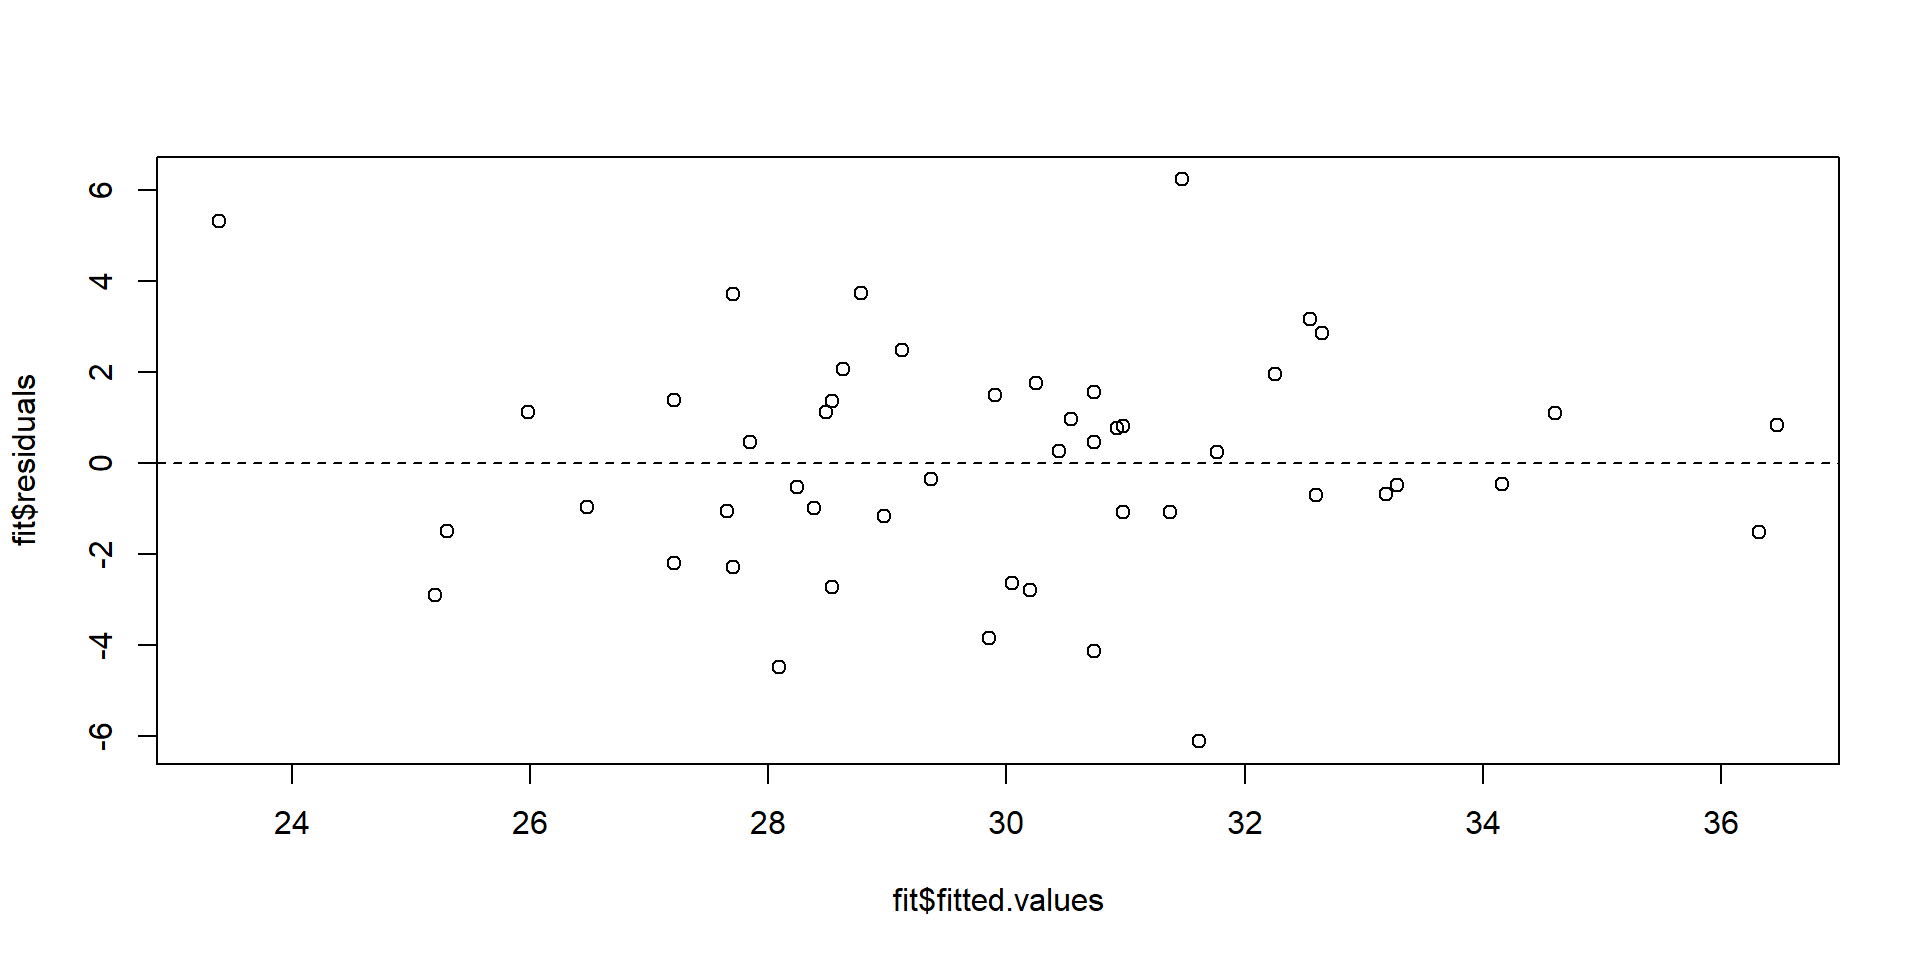
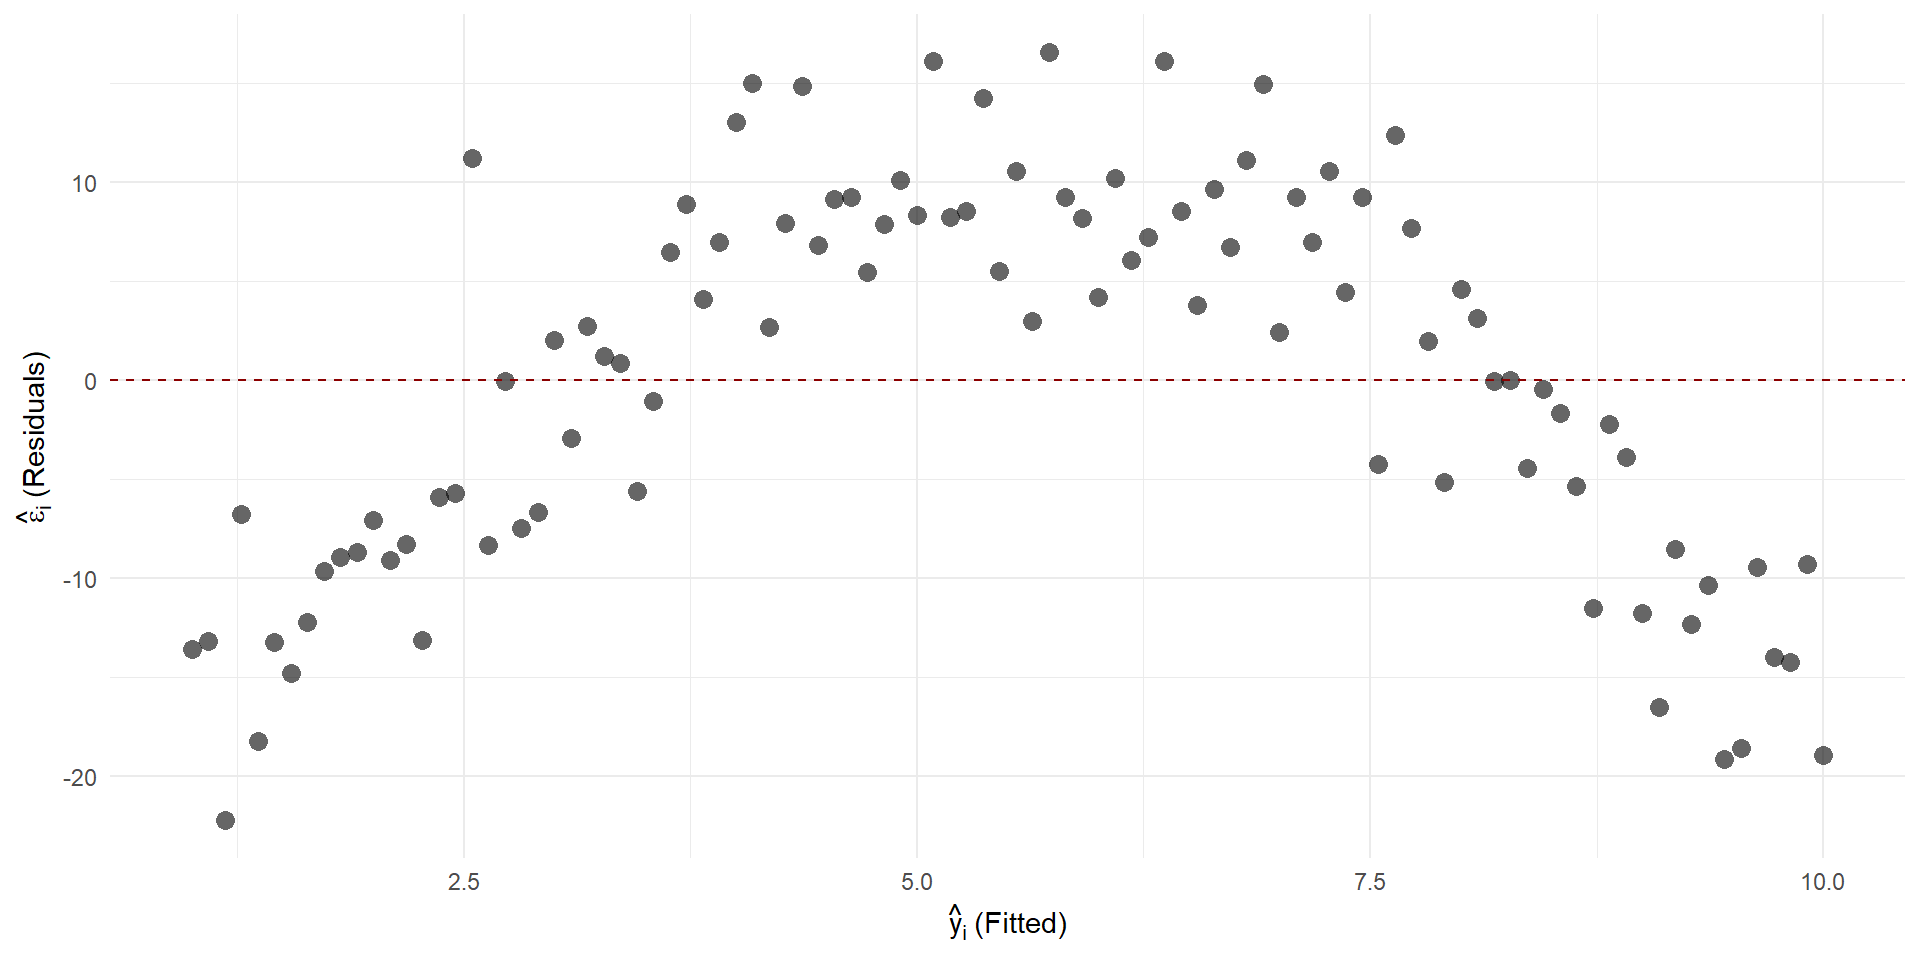
update elcgture 17 and 18

diff --git a/slides/lec-18-multiple-reg_AGH.html b/slides/lec-18-multiple-reg_AGH.html
@@ -206,10 +206,8 @@
 <section id="announcements" class="slide level2">
 <h2>Announcements</h2>
 <ul>
-<li><p>Project proposals due <strong>tonight, 11:59pm</strong>.</p></li>
-<li><p>Lab 7 due <strong>Friday Nov 14, 2025</strong></p></li>
-<li><p>HW will be assigned later this week</p></li>
-<li><p>Exams will be passed back on Thursday.</p></li>
+<li><p>Lab 7 due <strong>Friday, April 10th</strong></p></li>
+<li><p>Exams will be passed back on Tuesday</p></li>
 </ul>
 </section>
 <section id="reading" class="slide level2">
@@ -227,7 +225,7 @@
 <span id="cb1-3"><a href=""></a><span class="fu">library</span>(kableExtra)</span></code></pre></div><button title="Copy to Clipboard" class="code-copy-button"><i class="bi"></i></button></div>
 </div>
 </section>
-<section id="review-assumptions-of-linear-regression" class="slide level2">
+<section id="review-assumptions-of-linear-regression" class="slide level2 smaller">
 <h2>Review: Assumptions of linear regression</h2>
 <div class="callout callout-tip callout-titled callout-style-default">
 <div class="callout-body">
@@ -252,7 +250,7 @@
 <li><p>We can do so by “<strong>running regression diagnostics</strong>” - which means checking the assumptions within our regression model.</p></li>
 </ul>
 </section>
-<section id="regression-diagnostics-independence" class="slide level2">
+<section id="regression-diagnostics-independence" class="slide level2 smaller">
 <h2>Regression diagnostics: independence</h2>
 <p>We just have to think through this one, unfortunately.</p>
 <ul>
@@ -289,7 +287,16 @@
 </section>
 <section id="regression-diagnostics-equal-variances" class="slide level2">
 <h2>Regression diagnostics: equal variances</h2>
-</section>
+
+<img data-src="lec-18-multiple-reg_AGH_files/figure-revealjs/unnamed-chunk-2-1.png" width="960" class="r-stretch"></section>
+<section id="regression-diagnostics-equal-variances-1" class="slide level2">
+<h2>Regression diagnostics: equal variances</h2>
+
+<img data-src="lec-18-multiple-reg_AGH_files/figure-revealjs/unnamed-chunk-3-1.png" width="960" class="r-stretch"></section>
+<section id="regression-diagnostic-equal-variances" class="slide level2">
+<h2>Regression diagnostic: equal variances</h2>
+
+<img data-src="lec-18-multiple-reg_AGH_files/figure-revealjs/unnamed-chunk-4-1.png" width="960" class="r-stretch"></section>
 <section id="regression-diagnostics-normality-of-errors" class="slide level2">
 <h2>Regression diagnostics: normality of errors</h2>
 <ul>
@@ -304,7 +311,7 @@
 <span id="cb2-3"><a href=""></a><span class="fu">abline</span>(<span class="at">h =</span> <span class="dv">0</span>,<span class="at">lty =</span> <span class="dv">2</span>)</span></code></pre></div><button title="Copy to Clipboard" class="code-copy-button"><i class="bi"></i></button></div>
 
 </div>
-<img data-src="lec-18-multiple-reg_AGH_files/figure-revealjs/unnamed-chunk-3-1.png" width="960" class="r-stretch"></section>
+<img data-src="lec-18-multiple-reg_AGH_files/figure-revealjs/unnamed-chunk-6-1.png" width="960" class="r-stretch"></section>
 <section id="checking-assumptions-for-our-model-1" class="slide level2">
 <h2>Checking assumptions for our model…</h2>
 <div class="cell">
@@ -312,12 +319,12 @@
 <span id="cb3-2"><a href=""></a><span class="fu">hist</span>(fit<span class="sc">$</span>residuals)</span></code></pre></div><button title="Copy to Clipboard" class="code-copy-button"><i class="bi"></i></button></div>
 
 </div>
-<img data-src="lec-18-multiple-reg_AGH_files/figure-revealjs/unnamed-chunk-4-1.png" width="960" class="r-stretch"></section>
+<img data-src="lec-18-multiple-reg_AGH_files/figure-revealjs/unnamed-chunk-7-1.png" width="960" class="r-stretch"></section>
 <section id="back-to-lab-02" class="slide level2 smaller">
 <h2>Back to Lab 02</h2>
 <p>In Lab 2 we examined the regression of obesity percentage on adequate exercise percentage.</p>
 
-<img data-src="lec-18-multiple-reg_AGH_files/figure-revealjs/unnamed-chunk-5-1.png" width="960" class="r-stretch"><p>Do we think this is the only factor that can help us predict obesity percentage?</p>
+<img data-src="lec-18-multiple-reg_AGH_files/figure-revealjs/unnamed-chunk-8-1.png" width="960" class="r-stretch"><p>Do we think this is the only factor that can help us predict obesity percentage?</p>
 </section>
 <section id="multiple-regression" class="slide level2 smaller">
 <h2>Multiple regression</h2>
@@ -581,6 +588,102 @@ F-statistic: 72.28 on 2 and 47 DF,  p-value: 4.572e-15</code></pre>
 <h2>Hypotheses of interest</h2>
 <p><strong>Conclusion</strong>: In this case, the p-value (4.572e-15) was lower than the pre-specified significance cut-off. There is sufficient evidence to suggest that at least one predictor (Exercise and/or Smoking) has a non-zero linear association with obesity %.</p>
 </section>
+<section id="example-confounding" class="slide level2">
+<h2>Example: Confounding</h2>
+<ul>
+<li><p>Let’s go back to our example to test if higher SBP is associated with lower cognitive scores where we think age might be a confounder</p></li>
+<li><p>If I just include SBP as a predictor, what does the model suggest?</p></li>
+</ul>
+<div class="cell">
+<div class="cell-output-display">
+<table class="caption-top">
+<thead>
+<tr class="header">
+<th style="text-align: left;">term</th>
+<th style="text-align: right;">estimate</th>
+<th style="text-align: right;">std.error</th>
+<th style="text-align: right;">statistic</th>
+<th style="text-align: right;">p.value</th>
+</tr>
+</thead>
+<tbody>
+<tr class="odd">
+<td style="text-align: left;">(Intercept)</td>
+<td style="text-align: right;">49.297</td>
+<td style="text-align: right;">7.518</td>
+<td style="text-align: right;">6.557</td>
+<td style="text-align: right;">0</td>
+</tr>
+<tr class="even">
+<td style="text-align: left;">sbp</td>
+<td style="text-align: right;">0.309</td>
+<td style="text-align: right;">0.070</td>
+<td style="text-align: right;">4.427</td>
+<td style="text-align: right;">0</td>
+</tr>
+</tbody>
+</table>
+</div>
+</div>
+</section>
+<section id="example-confounding-1" class="slide level2">
+<h2>Example: Confounding</h2>
+<ul>
+<li>From our earlier findings, age was associated with both exposure and outcome</li>
+</ul>
+<div class="cell">
+<div class="cell-output cell-output-stdout">
+<pre><code>          sbp       cog       age
+sbp 1.0000000 0.4082618 0.6637731
+cog 0.4082618 1.0000000 0.4830672
+age 0.6637731 0.4830672 1.0000000</code></pre>
+</div>
+</div>
+</section>
+<section id="example-confounding-2" class="slide level2">
+<h2>Example: Confounding</h2>
+<ul>
+<li>Now, if I include both SBP and age as predictors, what does the model suggest?</li>
+</ul>
+<div class="cell">
+<div class="cell-output-display">
+<table class="caption-top">
+<thead>
+<tr class="header">
+<th style="text-align: left;">term</th>
+<th style="text-align: right;">estimate</th>
+<th style="text-align: right;">std.error</th>
+<th style="text-align: right;">statistic</th>
+<th style="text-align: right;">p.value</th>
+</tr>
+</thead>
+<tbody>
+<tr class="odd">
+<td style="text-align: left;">(Intercept)</td>
+<td style="text-align: right;">55.022</td>
+<td style="text-align: right;">7.400</td>
+<td style="text-align: right;">7.435</td>
+<td style="text-align: right;">0.000</td>
+</tr>
+<tr class="even">
+<td style="text-align: left;">sbp</td>
+<td style="text-align: right;">0.118</td>
+<td style="text-align: right;">0.089</td>
+<td style="text-align: right;">1.330</td>
+<td style="text-align: right;">0.187</td>
+</tr>
+<tr class="odd">
+<td style="text-align: left;">age</td>
+<td style="text-align: right;">0.284</td>
+<td style="text-align: right;">0.088</td>
+<td style="text-align: right;">3.218</td>
+<td style="text-align: right;">0.002</td>
+</tr>
+</tbody>
+</table>
+</div>
+</div>
+</section>
 <section id="multiple-regression-in-real-life" class="slide level2">
 <h2>Multiple Regression in Real Life</h2>
 <div class="callout callout-tip callout-titled callout-style-default">
@@ -656,9 +759,9 @@ F-statistic: 72.28 on 2 and 47 DF,  p-value: 4.572e-15</code></pre>
 <section id="interpretation-of-dummy-variables-1" class="slide level2">
 <h2>Interpretation of dummy variables</h2>
 <div class="cell">
-<div class="code-copy-outer-scaffold"><div class="sourceCode cell-code" id="cb8"><pre class="sourceCode numberSource r number-lines code-with-copy"><code class="sourceCode r"><span id="cb8-1"><a href=""></a>fit2 <span class="ot">&lt;-</span> <span class="fu">lm</span>(Obesity <span class="sc">~</span> HDI, <span class="at">data =</span> cdc)</span>
-<span id="cb8-2"><a href=""></a><span class="fu">tidy</span>(fit2) <span class="sc">|&gt;</span></span>
-<span id="cb8-3"><a href=""></a>  <span class="fu">kable</span>(<span class="at">digits =</span> <span class="dv">3</span>)</span></code></pre></div><button title="Copy to Clipboard" class="code-copy-button"><i class="bi"></i></button></div>
+<div class="code-copy-outer-scaffold"><div class="sourceCode cell-code" id="cb9"><pre class="sourceCode numberSource r number-lines code-with-copy"><code class="sourceCode r"><span id="cb9-1"><a href=""></a>fit2 <span class="ot">&lt;-</span> <span class="fu">lm</span>(Obesity <span class="sc">~</span> HDI, <span class="at">data =</span> cdc)</span>
+<span id="cb9-2"><a href=""></a><span class="fu">tidy</span>(fit2) <span class="sc">|&gt;</span></span>
+<span id="cb9-3"><a href=""></a>  <span class="fu">kable</span>(<span class="at">digits =</span> <span class="dv">3</span>)</span></code></pre></div><button title="Copy to Clipboard" class="code-copy-button"><i class="bi"></i></button></div>
 <div class="cell-output-display">
 <table class="caption-top">
 <thead>
@@ -703,6 +806,10 @@ F-statistic: 72.28 on 2 and 47 DF,  p-value: 4.572e-15</code></pre>
 <ul>
 <li>Wait a minute! R automatically assigned the lowest level of HDI as the reference level. Let’s see how we can change the reference level:</li>
 </ul>
+<div class="cell">
+<div class="code-copy-outer-scaffold"><div class="sourceCode cell-code" id="cb10"><pre class="sourceCode numberSource r number-lines code-with-copy"><code class="sourceCode r"><span id="cb10-1"><a href=""></a>cdc_new <span class="ot">&lt;-</span> cdc <span class="sc">|&gt;</span></span>
+<span id="cb10-2"><a href=""></a>  <span class="fu">mutate</span>(<span class="at">HDI_relevel =</span> <span class="fu">fct_relevel</span>(HDI, <span class="st">"Top ten"</span>))</span></code></pre></div><button title="Copy to Clipboard" class="code-copy-button"><i class="bi"></i></button></div>
+</div>
 <ul>
 <li><p>This reorders the factor levels so that “<code>Top ten</code>” becomes the first (reference) level.</p></li>
 <li><p>Now, when we run the regression, the model will automatically use <code>Top ten</code> as the baseline.</p></li>
@@ -752,10 +859,10 @@ F-statistic: 72.28 on 2 and 47 DF,  p-value: 4.572e-15</code></pre>
 <section id="interpretation-of-dummy-variables-2" class="slide level2">
 <h2>Interpretation of dummy variables</h2>
 <div class="cell">
-<div class="code-copy-outer-scaffold"><div class="sourceCode cell-code" id="cb9"><pre class="sourceCode numberSource r number-lines code-with-copy"><code class="sourceCode r"><span id="cb9-1"><a href=""></a>fit3 <span class="ot">&lt;-</span> <span class="fu">lm</span>(Obesity <span class="sc">~</span> Exercise <span class="sc">+</span> HDI_relevel, </span>
-<span id="cb9-2"><a href=""></a>           <span class="at">data =</span> cdc_new)</span>
-<span id="cb9-3"><a href=""></a><span class="fu">tidy</span>(fit3) <span class="sc">|&gt;</span></span>
-<span id="cb9-4"><a href=""></a>  <span class="fu">kable</span>(<span class="at">digits =</span> <span class="dv">3</span>)</span></code></pre></div><button title="Copy to Clipboard" class="code-copy-button"><i class="bi"></i></button></div>
+<div class="code-copy-outer-scaffold"><div class="sourceCode cell-code" id="cb11"><pre class="sourceCode numberSource r number-lines code-with-copy"><code class="sourceCode r"><span id="cb11-1"><a href=""></a>fit3 <span class="ot">&lt;-</span> <span class="fu">lm</span>(Obesity <span class="sc">~</span> Exercise <span class="sc">+</span> HDI_relevel, </span>
+<span id="cb11-2"><a href=""></a>           <span class="at">data =</span> cdc_new)</span>
+<span id="cb11-3"><a href=""></a><span class="fu">tidy</span>(fit3) <span class="sc">|&gt;</span></span>
+<span id="cb11-4"><a href=""></a>  <span class="fu">kable</span>(<span class="at">digits =</span> <span class="dv">3</span>)</span></code></pre></div><button title="Copy to Clipboard" class="code-copy-button"><i class="bi"></i></button></div>
 <div class="cell-output-display">
 <table class="caption-top">
 <thead>

diff --git a/slides/lec-17-linear-reg_AGH.html b/slides/lec-17-linear-reg_AGH.html
@@ -728,6 +728,7 @@ F-statistic: 59.25 on 1 and 48 DF,  p-value: 6.336e-10</code></pre>
 <ul>
 <li><p>The <span class="math inline">\(R-squared\)</span> value indicates that exercise explains 55% of the variance of obesity.</p></li>
 <li><p><span class="math inline">\(R^2\)</span> tells us about how much of the variability in obesity is explained by exercise; as it gets close to 1, the points get tighter around the regression line.</p></li>
+<li><p><span class="math inline">\(R^2\)</span> ranges from 0 to 1</p></li>
 </ul>
 </section>
 <section id="predicted-values" class="slide level2">
